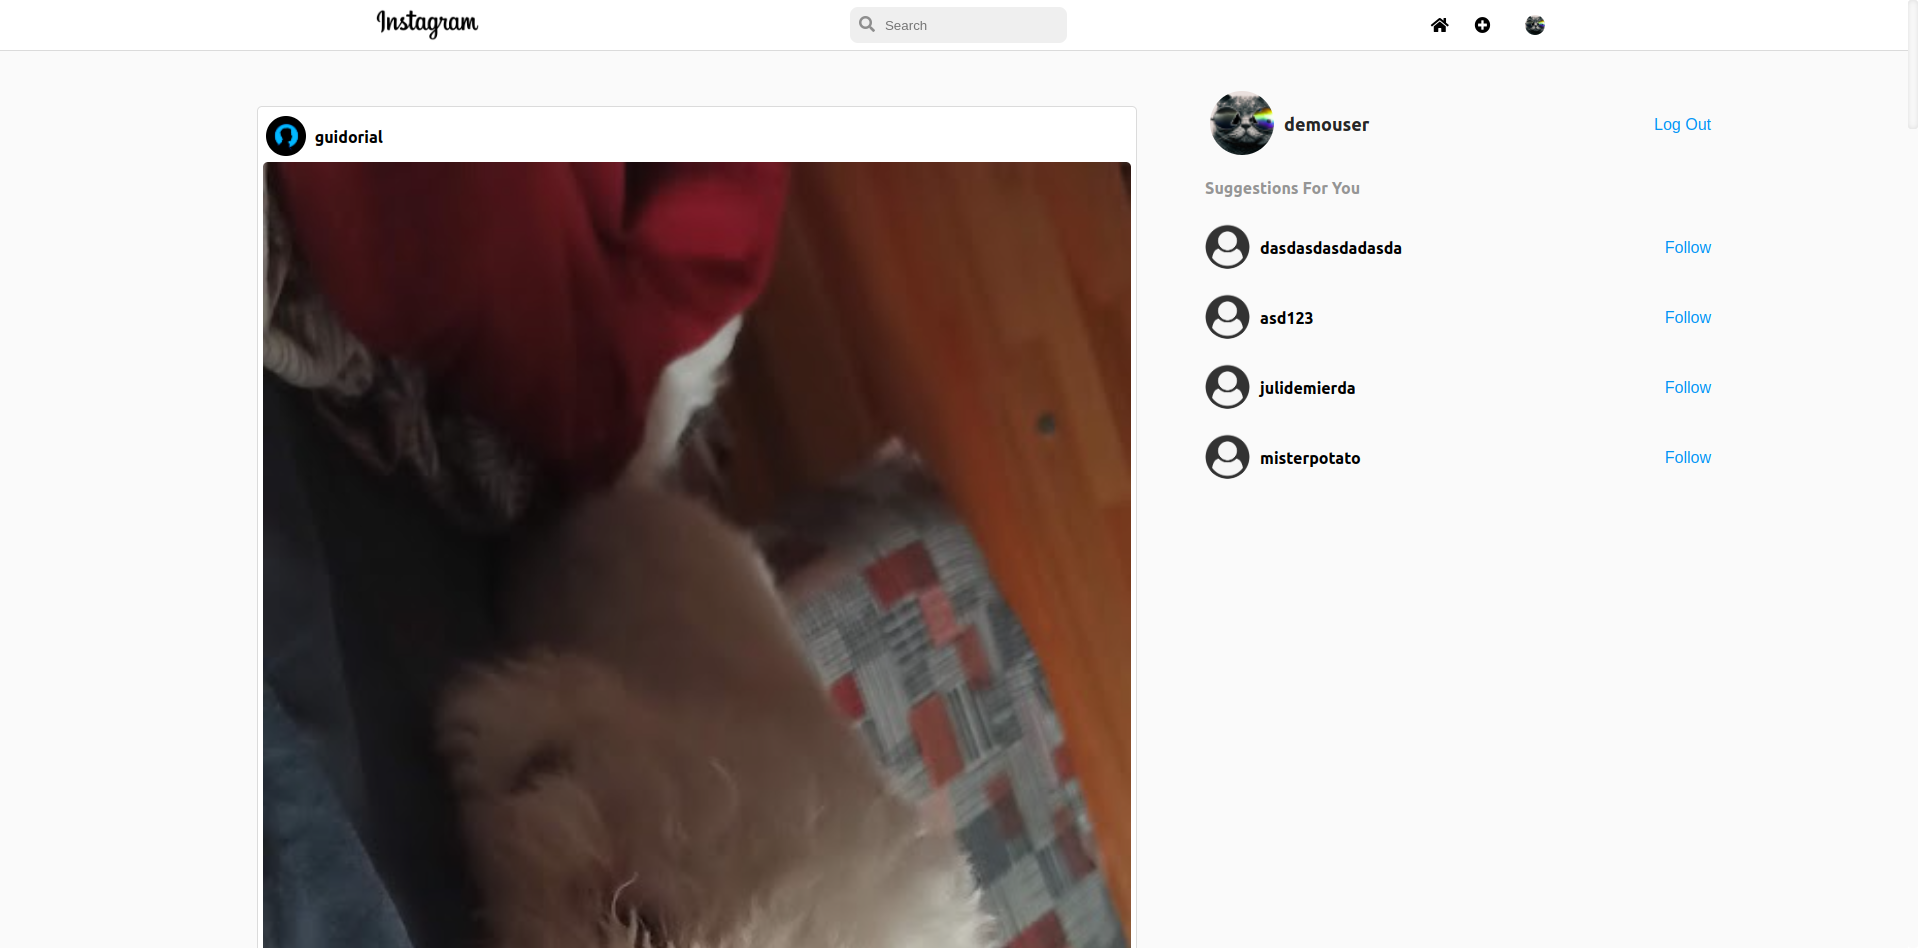
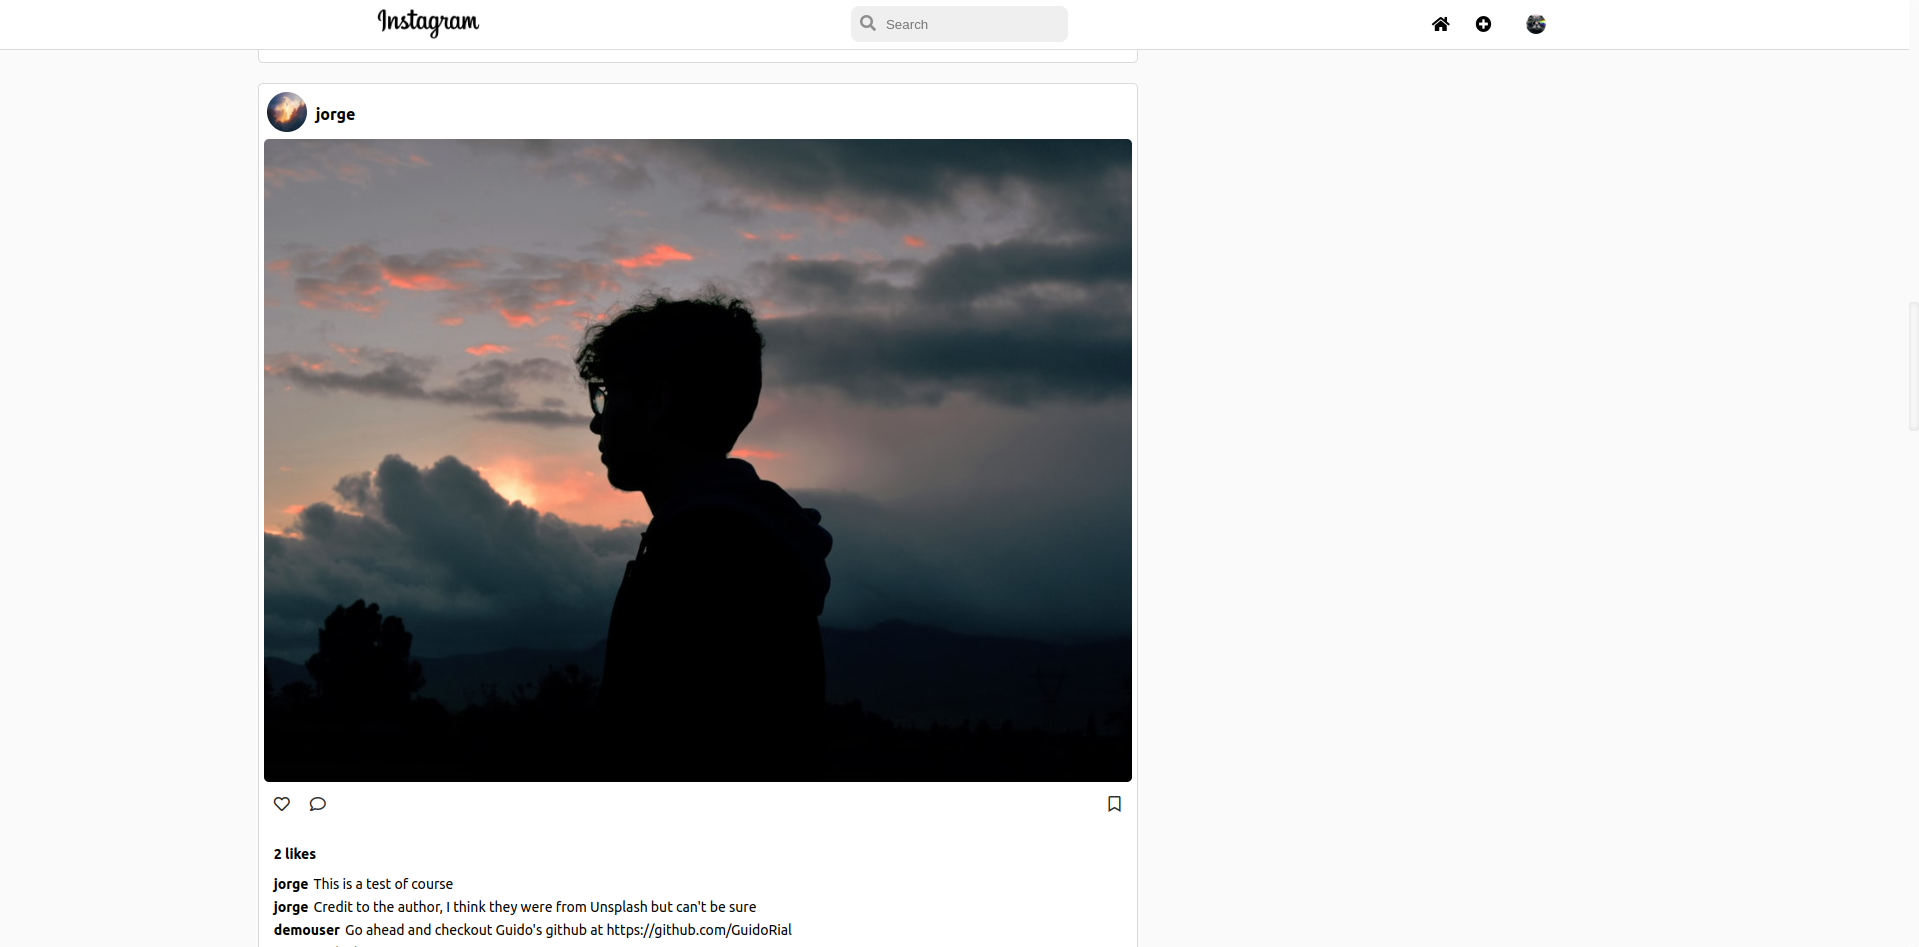
changed photos

diff --git a/src/components/Projects/spanishProjectsLists.js b/src/components/Projects/spanishProjectsLists.js
@@ -1,5 +1,6 @@
 import memoryGamePhoto from "../../assets/project-photos/pokemon-game/poke-game.png";
 import instagramHome from "../../assets/project-photos/instagram-clone/home.png";
+import instagramHome2 from "../../assets/project-photos/instagram-clone/home2.png";
 import instagramLogin from "../../assets/project-photos/instagram-clone/login.png";
 import instagramPhotoProfile from "../../assets/project-photos/instagram-clone/photo-from-profile.png";
 import instagramProfile from "../../assets/project-photos/instagram-clone/profile.png";
@@ -18,7 +19,7 @@ export const spanishProjectsList = [
         name: "Clon de Instagram",
         pictures: [
             instagramHome,
-
+            instagramHome2,
             instagramProfile,
             instagramPhotoProfile,
             instagramLogin,
@@ -62,7 +63,7 @@ export const spanishProjectsList = [
     {
         id: 3,
         name: "Tienda falsa",
-        pictures: [storeCart, storeHome, storeStore],
+        pictures: [storeCart, storeStore],
         description:
             "Una tienda falsa con un carrito. El usuario puede agregar, eliminar o modificar la cantidad de items desde el carrito",
         livePreview: "https://fake-store-eta.vercel.app//",

diff --git a/src/components/Projects/englishProjectsList.js b/src/components/Projects/englishProjectsList.js
@@ -1,5 +1,6 @@
 import memoryGamePhoto from "../../assets/project-photos/pokemon-game/poke-game.png";
 import instagramHome from "../../assets/project-photos/instagram-clone/home.png";
+import instagramHome2 from "../../assets/project-photos/instagram-clone/home2.png";
 import instagramLogin from "../../assets/project-photos/instagram-clone/login.png";
 import instagramPhotoProfile from "../../assets/project-photos/instagram-clone/photo-from-profile.png";
 import instagramProfile from "../../assets/project-photos/instagram-clone/profile.png";
@@ -18,6 +19,7 @@ export const englishProjectsList = [
         name: "Instagram Clone",
         pictures: [
             instagramHome,
+            instagramHome2,
             instagramProfile,
             instagramPhotoProfile,
             instagramLogin,
@@ -61,7 +63,7 @@ export const englishProjectsList = [
     {
         id: 4,
         name: "Fake Store",
-        pictures: [storeCart, storeHome, storeStore],
+        pictures: [storeCart, storeStore],
         description:
             "A Fake Store with a cart. You can add or delete items from it, modify the amount of items or empty the cart",
         livePreview: "https://fake-store-eta.vercel.app//",
